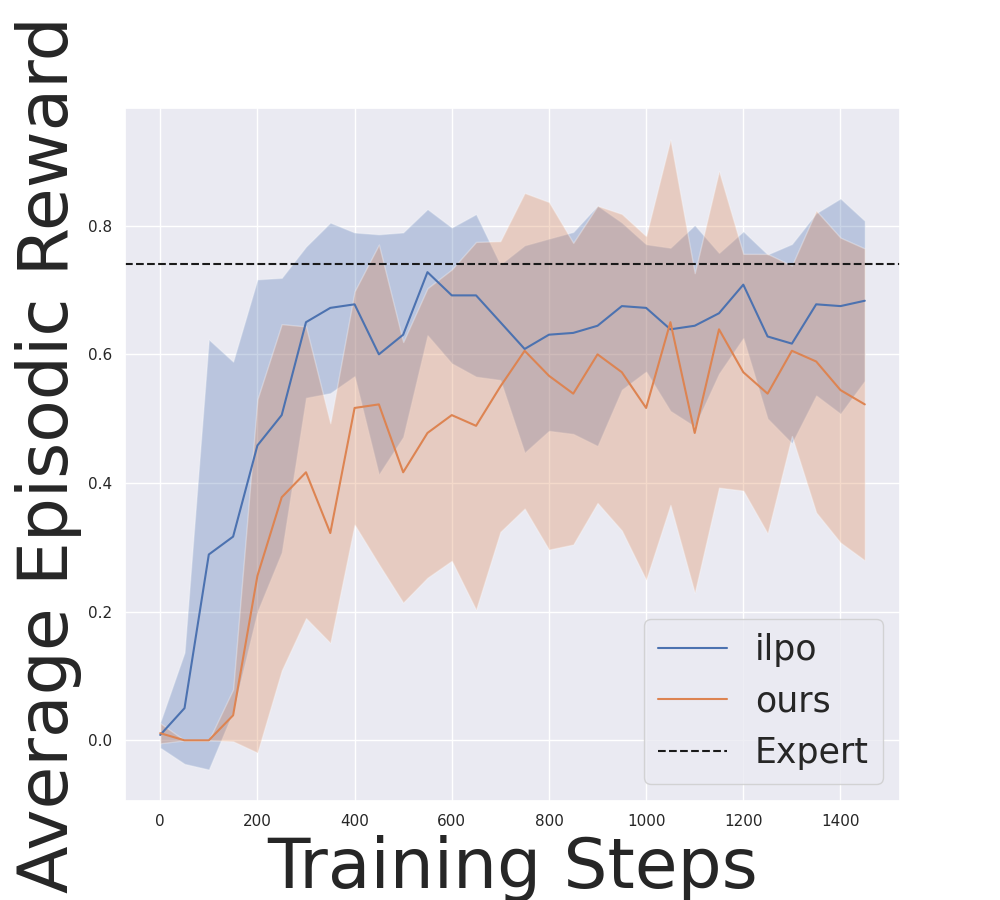
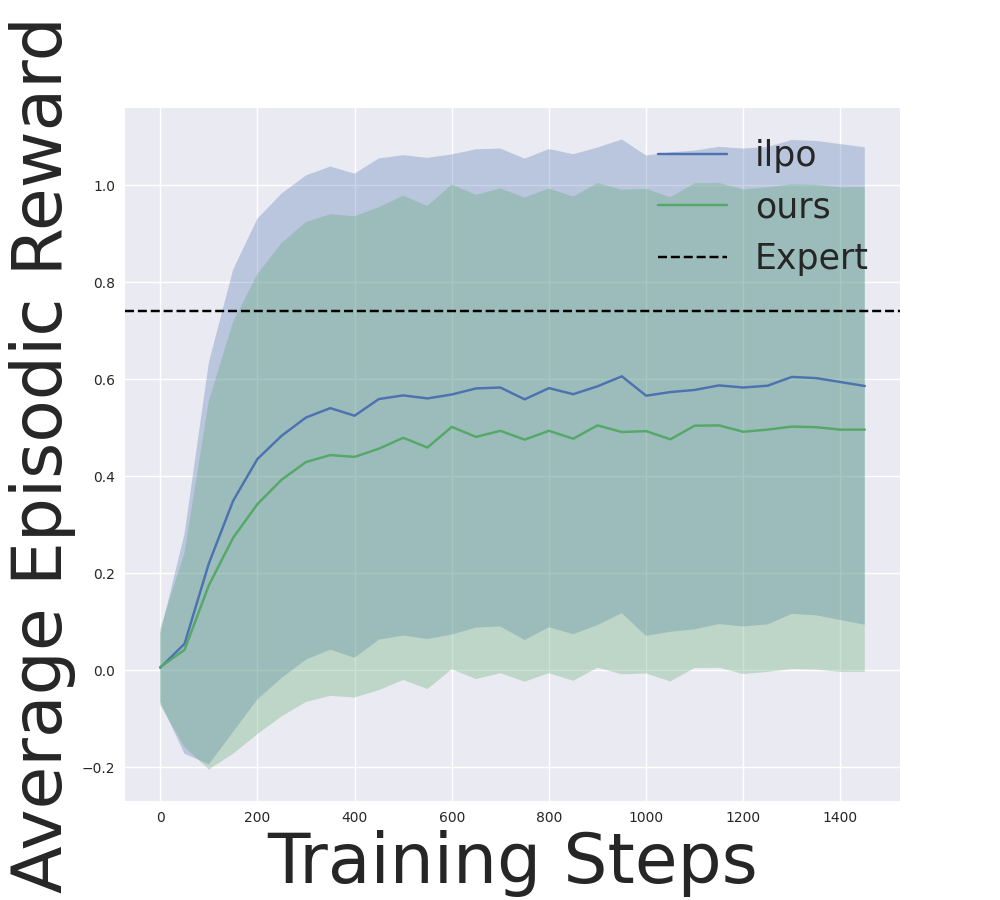
Sync from notebook

diff --git a/results/plot_results.py b/results/plot_results.py
@@ -4,89 +4,47 @@ import seaborn as sns
 import matplotlib
 matplotlib.use('TkAgg')
 
+p1 = '/media/veracrypt4/ILPO/workspace/2021_06_01_pong/'
+files_ilpo = [p1 + 'pong_0/results/',
+        p1 + 'pong_1/results/',
+        p1 + 'pong_10/results/',
+        p1 + 'pong_100/results/',
+        p1 + 'pong_1000/results/',
+        p1 + 'pong_10000/results/',
+        p1 + 'pong_655/results/',
+        p1 + 'pong_867/results/']
+p2 = '/media/veracrypt4/ILPO/models/2021_06_01_pong/'
+files_ours = [p2 + 'pong_0/results/',
+        p2 + 'pong_1/results/',
+        p2 + 'pong_10/results/',
+        p2 + 'pong_100/results/',
+        p2 + 'pong_1000/results/',
+        p2 + 'pong_10000/results/',
+        p2 + 'pong_655/results/',
+        p2 + 'pong_867/results/']
 """
-backup_path = '/media/oli/LinuxData/VAEToolbox/ilpo_original_models/2021_04_28_models/'
-
-f = 4
-if f == 0:
-    title = 'Original Dataset'
-    files = [backup_path + 'cartpole_old_0/results/',
-            backup_path + 'cartpole_old_10/results/',
-            backup_path + 'cartpole_old_100/results/',
-            './final_models/cartpole_old/results/',
-            './final_models/cartpole_old_0/results/',
-            './final_models/cartpole_old_100/results/']
-if f == 1:
-    title = 'New Dataset, same params as Original'
-    files = [backup_path + 'cartpole_new1_0/results/',
-            backup_path + 'cartpole_new1_10/results/',
-            backup_path + 'cartpole_new1_100/results/',
-            './final_models/cartpole_new1/results/',
-            './final_models/cartpole_new1_0/results/',
-            './final_models/cartpole_new1_100/results/']
-if f == 2:
-    title = 'New Dataset, Longer training time'
-    files = [backup_path + 'cartpole_new2_0/results/',
-            backup_path + 'cartpole_new2_10/results/',
-            backup_path + 'cartpole_new2_100/results/',
-            './final_models/cartpole_new2/results/',
-            './final_models/cartpole_new2_0/results/',
-            './final_models/cartpole_new2_100/results/']
-if f == 3:
-    title = 'New Dataset, Longer training time, limited reward'
-    files = [backup_path + 'cartpole_new3_0/results/',
-            backup_path + 'cartpole_new3_10/results/',
-            backup_path + 'cartpole_new3_100/results/',
-            './final_models/cartpole_new3/results/',
-            './final_models/cartpole_new3_0/results/',
-            './final_models/cartpole_new3_100/results/']
-if f == 4:
-    title = 'No idea where this was from'
-    files = [backup_path + 'cartpole_anomaly_0/results/',
-            backup_path + 'cartpole_anomaly_10/results/',
-            backup_path + 'cartpole_anomaly_100/results/',
-            './final_models/cartpole_anomaly/results/',
-            './final_models/cartpole_anomaly_0/results/',
-            './final_models/cartpole_anomaly_100/results/']
-
-labels = ['Ours 0', 'Ours 10', 'Ours 100', 'ILPO 0', 'ILPO 10', 'ILPO 100']
-colors = ['tab:red', 'tab:red', 'tab:red', 'tab:blue', 'tab:blue', 'tab:blue']
-"""
-
-files_ilpo = ['./workspace/2021_05_21_pong/pong_0/results/',
-        './workspace/2021_05_21_pong/pong_1/results/',
-        './workspace/2021_05_21_pong/pong_100/results/',
-        './workspace/2021_05_21_pong/pong_200/results/',
-        './workspace/2021_05_21_pong/pong_10000/results/',
-        './workspace/2021_05_21_pong/pong_20000/results/']
-files_ours = ['/home/oli/workspace/LFO/ilpo/models/2021_05_21_pong/pong_0/results/',
-        '/home/oli/workspace/LFO/ilpo/models/2021_05_21_pong/pong_100/results/',
-        '/home/oli/workspace/LFO/ilpo/models/2021_05_21_pong/pong_10000/results/']
-"""
-files_ilpo = ['/home/oli/workspace/ilpo/test/pong_0/results/',
-        '/home/oli/workspace/ilpo/test/pong_100/results/',
-        '/home/oli/workspace/ilpo/test/pong_10000/results/']
-
-files_ours = ['/home/oli/workspace/LFO/ilpo/bak/2021_05_19_pong/pong_0/results/',
-        '/home/oli/workspace/LFO/ilpo/bak/2021_05_19_pong/pong_100/results/',
-        '/home/oli/workspace/LFO/ilpo/bak/2021_05_19_pong/pong_10000/results/']
-"""
-
-"""
-files_ilpo = ['./workspace/2021_05_21_cartpole/cartpole_0/results/',
-        './workspace/2021_05_21_cartpole/cartpole_100/results/',
-        './workspace/2021_05_21_cartpole/cartpole_10000/results/']
-files_ours = ['/home/oli/workspace/LFO/ilpo/models/2021_05_21_cartpole/cartpole_0/results/',
-        '/home/oli/workspace/LFO/ilpo/models/2021_05_21_cartpole/cartpole_100/results/',
-        '/home/oli/workspace/LFO/ilpo/models/2021_05_21_cartpole/cartpole_10000/results/']
+p1 = '/media/veracrypt4/ILPO/workspace/2021_06_01_cartpole/'
+files_ilpo = [p1 + 'cartpole_0/results/',
+        p1 + 'cartpole_1/results/',
+        p1 + 'cartpole_10/results/',
+        p1 + 'cartpole_100/results/']
+p2 = '/media/veracrypt4/ILPO/models/2021_06_01_cartpole/'
+files_ours = [p2 + 'cartpole_0/results/',
+        p2 + 'cartpole_1/results/',
+        p2 + 'cartpole_10/results/',
+        p2 + 'cartpole_100/results/']
 """
 """
-files_ilpo = ['./workspace/2021_05_21_acrobot/acrobot_0/results/',
-        './workspace/2021_05_21_acrobot/acrobot_100/results/',
-        './workspace/2021_05_21_acrobot/acrobot_10000/results/']
-files_ours = ['/home/oli/workspace/LFO/ilpo/models/2021_05_21_acrobot/acrobot_0/results/',
-        '/home/oli/workspace/LFO/ilpo/models/2021_05_21_acrobot/acrobot_100/results/',
-        '/home/oli/workspace/LFO/ilpo/models/2021_05_21_acrobot/acrobot_10000/results/']
+p1 = '/media/veracrypt4/ILPO/workspace/2021_06_01_acrobot/'
+files_ilpo = [p1 + 'acrobot_0/results/',
+        p1 + 'acrobot_1/results/',
+        p1 + 'acrobot_10/results/',
+        p1 + 'acrobot_100/results/']
+p2 = '/media/veracrypt4/ILPO/models/2021_06_01_acrobot/'
+files_ours = [p2 + 'acrobot_0/results/',
+        p2 + 'acrobot_1/results/',
+        p2 + 'acrobot_10/results/',
+        p2 + 'acrobot_100/results/']
 """
 
 EXPERT = 0.74
@@ -95,10 +53,11 @@ labels = ['ilpo', 'ours']
 colors = ['tab:orange', 'tab:blue']
 
 NAME = "results/cartpole.png"
-experiments = 3
+experiments = 200
+timesteps = 30
 
 def getdata(files, experiments):
-    out = np.zeros((len(files), experiments, 30))
+    out = np.zeros((len(files), experiments, timesteps))
     for idx, f in enumerate(files):
         all_results = []
         for i in range(0, experiments):

diff --git a/models/vector_policy.py b/models/vector_policy.py
@@ -6,7 +6,8 @@ import gym
 import os
 import random
 import sys
-sys.path.append('/media/oli/LinuxData/VAEToolbox/datasets/pong')
+#sys.path.append('/media/oli/LinuxData/VAEToolbox/datasets/pong')
+sys.path.append('/media/veracrypt4/VAEToolbox/datasets/pong')
 import wimblepong
 
 sess = tf.Session()
@@ -95,14 +96,21 @@ class Policy(VectorILPO):
         """Network for remapping incorrect action labels."""
 
         with tf.variable_scope("action_remap"):
+            # Get Embedding lrelu(E)
             fake_state_encoding = lrelu(slim.flatten(self.create_encoder(state)[-1]), .2)
+            # self.fake_state_encoding 
+            # One hot encode z_min
             fake_action_one_hot = tf.one_hot(fake_action, args.n_actions)
+            # Encode z_min -> lrelu
             fake_action_one_hot = lrelu(fully_connected(fake_action_one_hot, int(fake_state_encoding.shape[-1])), .2)
             real_action_one_hot = tf.one_hot(action, args.real_actions, dtype="int32")
             fake_state_action = tf.concat([fake_state_encoding, fake_action_one_hot], axis=-1)
+            # This is pretty much the mapping from z space to true actions
+            # =======  remapping_network ======
             prediction = lrelu(fully_connected(fake_state_action, 64), .2)
             prediction = lrelu(fully_connected(prediction, 32), .2)
             prediction = fully_connected(prediction, args.real_actions)
+            # ======= L_map ========
             loss = tf.reduce_mean(tf.nn.softmax_cross_entropy_with_logits(labels=real_action_one_hot, logits=prediction))
 
             return tf.nn.softmax(prediction), loss
@@ -125,7 +133,6 @@ class Policy(VectorILPO):
 
         return np.argmax(remapped_action)
 
-    """
     def eval_policy(self, game, t):
         #total_reward = 0
         games = 1
@@ -146,10 +153,10 @@ class Policy(VectorILPO):
         reward_summary = sess.run([self.reward_summary], feed_dict={self.reward: [total_reward]})[0]
         self.summary_writer.add_summary(reward_summary, t)
         self.exp_writer.write(str(t) + "," + str(total_reward) + "\n")
-    """
 
+    """
     def eval_policy(self, game, t):
-        games = 30
+        games = 1
         print("Evaluating policy at t={} with {} games".format(t, games))
         wins = 0
 
@@ -168,6 +175,7 @@ class Policy(VectorILPO):
         reward_summary = sess.run([self.reward_summary], feed_dict={self.reward: [total_reward]})[0]
         self.summary_writer.add_summary(reward_summary, t)
         self.exp_writer.write(str(t) + "," + str(total_reward) + "\n")
+    """
 
     def run_policy(self, seed):
         """Run the policy."""
@@ -181,7 +189,8 @@ class Policy(VectorILPO):
         D = deque()
 
 
-        for t in range(0, 1500):
+        #for t in range(0, 1500):
+        for t in range(0, 500):
             #print(t)
             #game.render()
 
@@ -219,7 +228,7 @@ class Policy(VectorILPO):
 
                 self.summary_writer.add_summary(loss_summary, t)
 
-            if t % 50 == 0:
+            if t % 10 == 0:
                 self.eval_policy(game, t)
                 terminal = True
 

diff --git a/train_expert/train_mc.py b/train_expert/train_mc.py
@@ -1,0 +1,24 @@
+import gym
+
+from baselines import deepq
+from baselines.common import models
+
+def main():
+    env = gym.make("MountainCar-v0")
+    model = models.mlp(num_layers=1, num_hidden=64)
+    act = deepq.learn(network=model,
+        env=env,
+        lr=1e-3,
+        total_timesteps=100000, # 100000
+        buffer_size=50000,
+        exploration_fraction=0.1,
+        exploration_final_eps=0.02,
+        print_freq=10,
+    )
+    save_path= './final_models'
+    print("Saving model to {}/mc_model.pkl".format(save_path))
+    act.save_act("{}/mc_model.pkl".format(save_path))
+
+
+if __name__ == '__main__':
+    main()
